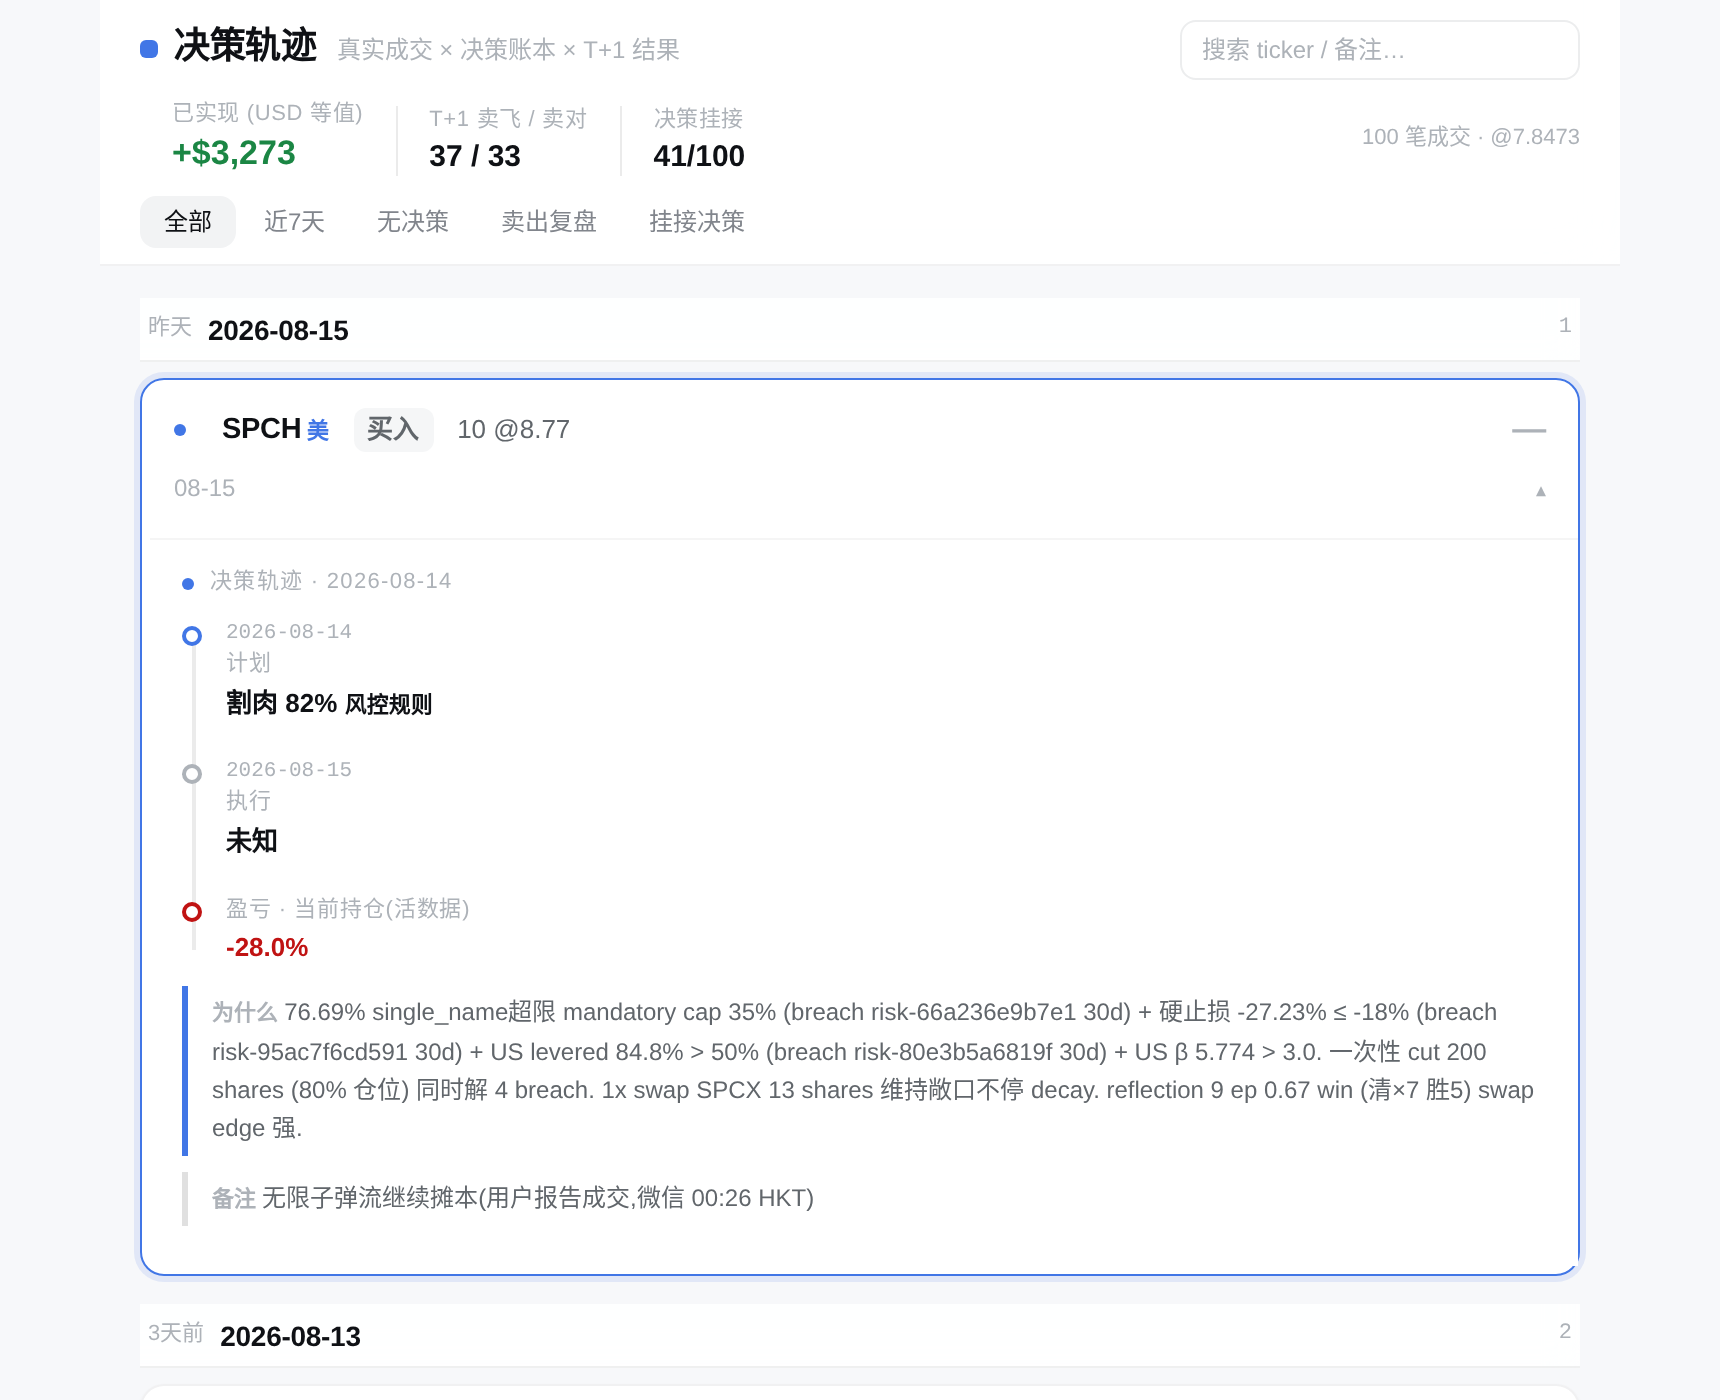
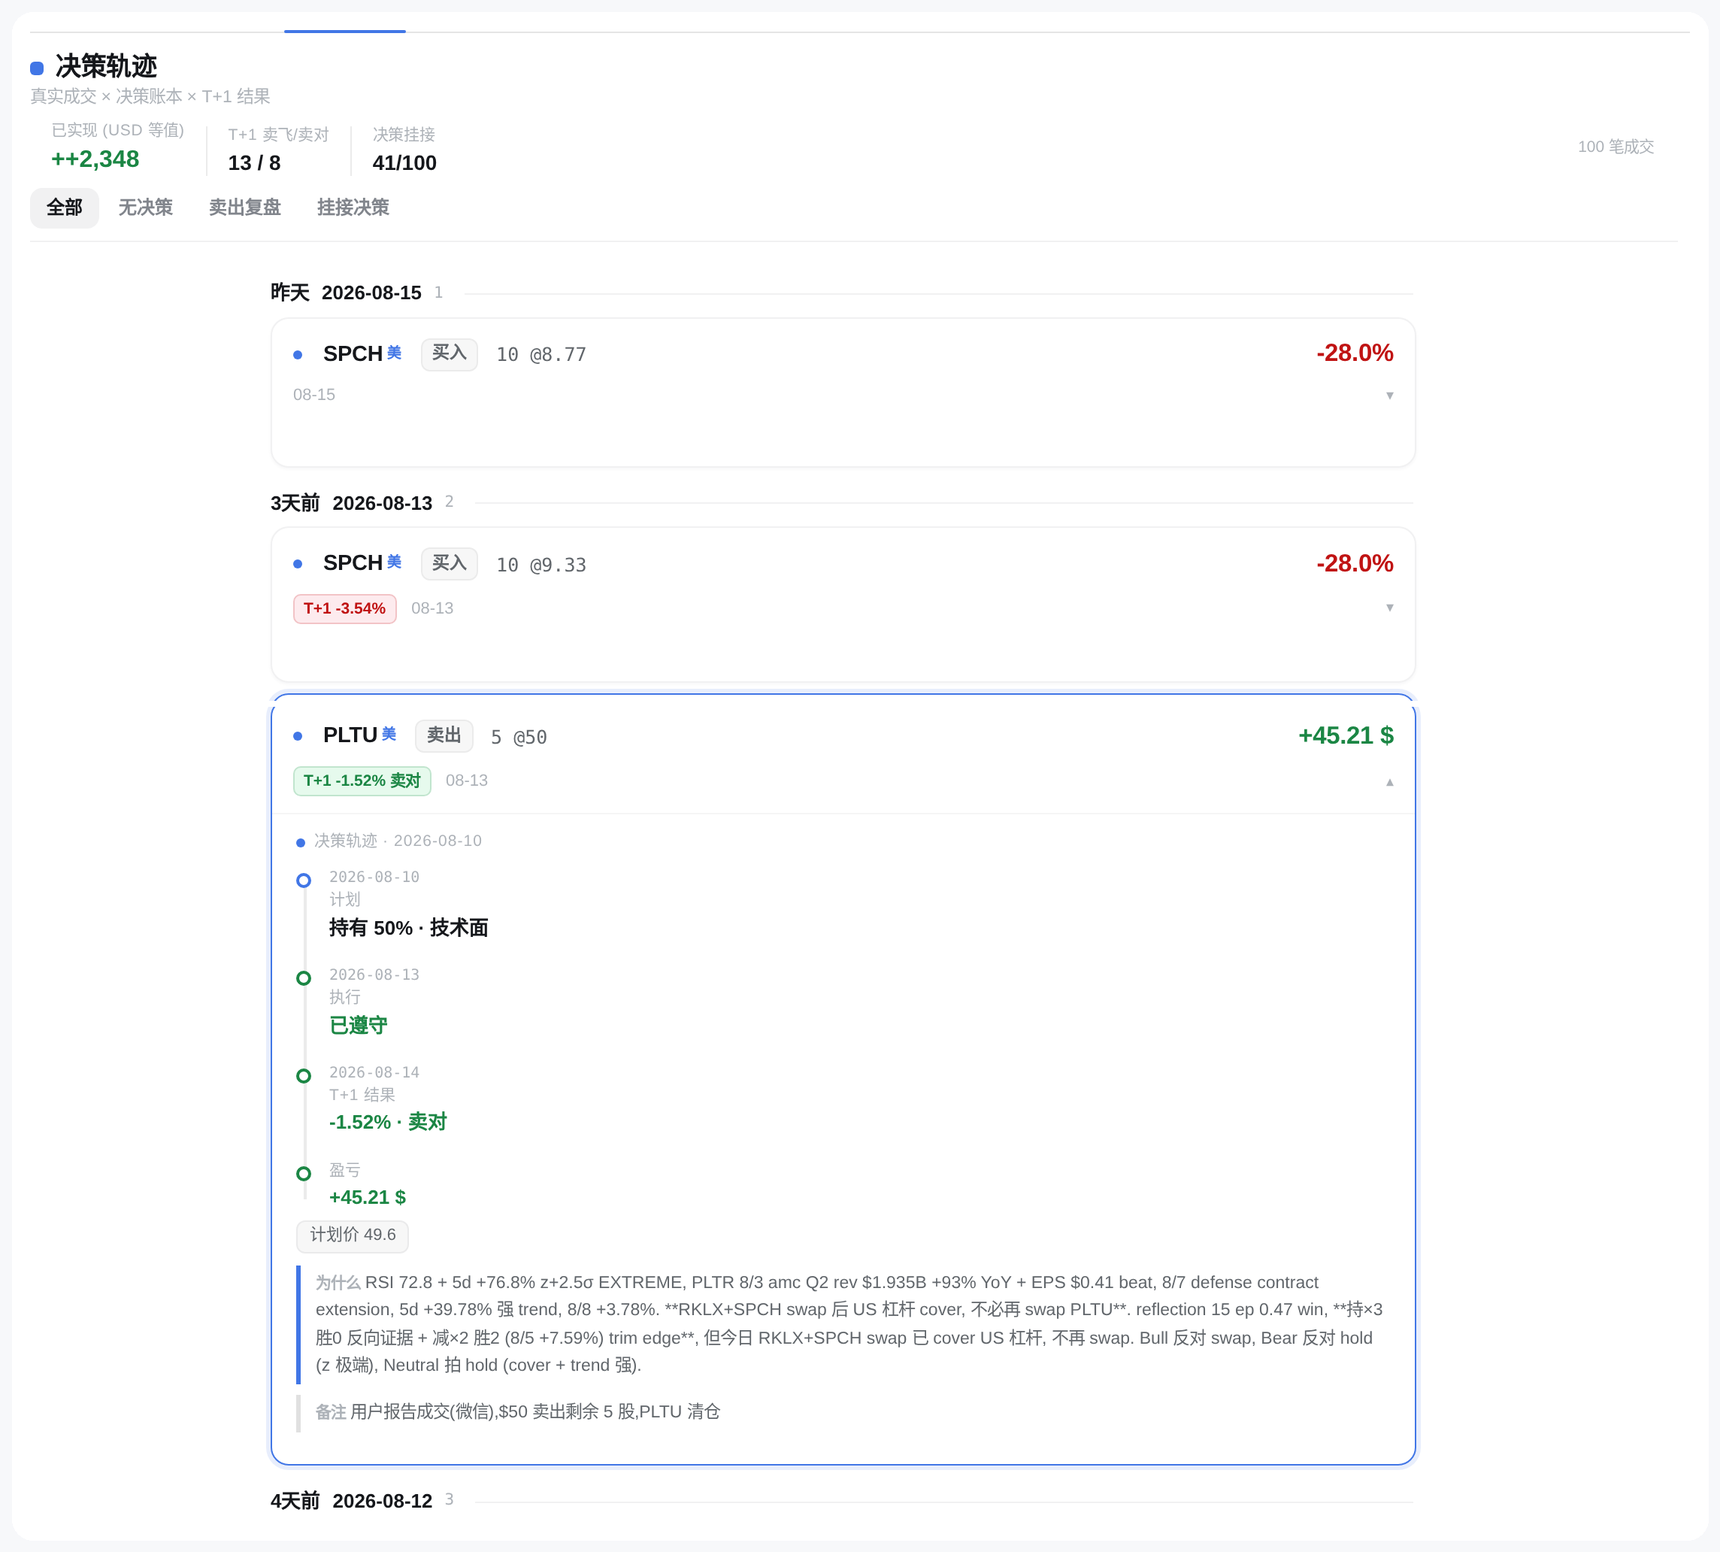
docs: 双 harness 截图(Claude Code + 重拍 DSH)+ 收窄 AI 味文案 (#692)
kcn 反馈:①之前 DSH 插件那张截图挑的是最难看的一条(裸 breach id
堆砌的机读文本),②开场文案 AI 味重。

## 变更

- **新增 Claude Code 终端截图**:不是摆拍,`examples/claude-code` 那套流程
  (`clawock init` → `clawock run prepare` → Claude 读 request 写
  decision.json → `clawock run publish`)真的跑了一遍,截图里的 sha256/
  run_id/generation_id/`status: published` 都是那次真实运行产出的
- **重拍 DSH Decision Mind 截图**:旧图选的例子是一条满屏 breach-id 哈希的
  机读文本,新图换成一个真实的 win 案例(PLTU,T+1 卖对 +$45.21,计划→
  执行→T+1→盈亏全绿可读),同时保留上方一条真实止损(SPCH -28%)不藏亏损,
  但不再让最难懂的例子当门面
- 新增「Same contract, whatever the harness looks like」小节把两张图并排,
  证明「同一个 decision.json 契约,两种长得完全不一样的 harness 界面」,
  EN/ZH 同步
- 开场段 + "What this is" 段砍掉几处「X,不是Y」对仗句式和链式破折号
  (比如 "This repository is a live account before it is a package"),
  换成更直白的陈述句

## 验证

parity / brand-assets / screenshot 相关 43 项测试通过。

diff --git a/README.md b/README.md
@@ -4,12 +4,11 @@
 
 ### AI argues. Code settles. The losses stay on the page.
 
-A real Hong Kong + US brokerage account, run day after day by agents that have
-to argue their case — and graded by code the model never gets to touch. Every
-call is published, wins and losses alike, because a system that only shows you
-the wins is marketing, not evidence. Install the same decision workflow into
-your own agent, in any harness — OpenClaw, Claude Code, Codex, DeepSeek
-Harness, or one you write yourself.
+A real Hong Kong + US brokerage account, run day after day by agents that
+debate every call before it happens, then settled by code the model never
+touches. Every result gets published, wins and losses both. Install the same
+decision workflow into your own agent, in any harness: OpenClaw, Claude Code,
+Codex, DeepSeek Harness, or one you write yourself.
 
 [![PyPI](https://img.shields.io/pypi/v/clawock?label=PYPI&style=flat-square&logo=pypi&logoColor=white&labelColor=252b35&color=4b91c8)](https://pypi.org/project/clawock/)
 [![npm](https://img.shields.io/npm/v/clawock-dsh?label=NPM&style=flat-square&logo=npm&logoColor=white&labelColor=252b35&color=4b91c8)](https://www.npmjs.com/package/clawock-dsh)
@@ -39,31 +38,30 @@ Harness, or one you write yourself.
 
 ## What this is
 
-This repository is a live account before it is a package. A multi-agent desk
-debates the evidence on a real brokerage account with separate Hong Kong and
-US books and proposes trades; execution stays with the account owner. The
-product is the record that comes out of that: real positions, an accumulating
-decision history, and a public scorecard the model does not get a vote on —
-not a get-rich bot, and not a copy-trading service.
+This started as one account, not a package. A multi-agent desk debates the
+evidence on a real brokerage account with separate Hong Kong and US books and
+proposes trades; the account owner still places the orders. What comes out of
+that is the record: real positions, a growing decision history, and a public
+scorecard the model has no say in — not a get-rich bot, and not a
+copy-trading service.
 
-**clawock is the reusable half of that desk, pulled out of one live account
-instead of designed in the abstract: an agent-native, harness-agnostic
-investment decision-workflow plugin with a verifiable harness.** OpenClaw,
-Claude Code, Codex, DeepSeek Harness, or another external runtime keeps the
-model call, conversation, memory, planning, tools, permissions, and
-credentials — clawock installs the workflow that certifies evidence, forces an
-opposing case, validates money and FX, links outcomes back to the decision
-that caused them, and keeps every improvement proposal reviewable and
-reversible. Swap harnesses and the decision contract does not move: the loop
-is files and a CLI — see
+**clawock is the part of that desk we pulled out and made reusable: an
+agent-native, harness-agnostic investment decision-workflow plugin with a
+verifiable harness.** OpenClaw, Claude Code, Codex, DeepSeek Harness, or
+another external runtime keeps the model call, the conversation, memory,
+planning, tools, permissions and credentials. clawock installs the workflow on
+top of that: it certifies evidence, forces an opposing case, checks the money
+and FX arithmetic, links outcomes back to the decision that caused them, and
+keeps every improvement proposal reviewable and reversible. Swap harnesses and
+the decision contract stays put — it's just files and a CLI. See
 [`examples/`](https://github.com/KCNyu/clawock/blob/master/examples/README.md) for the
-same run driven from a pure CLI, an OpenClaw skill, a Claude Code instruction, a Codex AGENTS.md,
+same run done from a pure CLI, an OpenClaw skill, a Claude Code instruction, a Codex AGENTS.md,
 and a DeepSeek Harness agent.
 
-It installs from PyPI — `pip install clawock` — and
-[runs on your own book](#run-it-on-your-own-book) without this repository. The
-model proposes; Python owns the prices, the risk limits, the ledger, the
-settlement, and the grading.
+Install it with `pip install clawock`, or
+[run it on your own book](#run-it-on-your-own-book) without this repository at
+all. The model proposes; Python owns the prices, the risk limits, the ledger,
+the settlement, and the grading.
 
 ### What makes it different
 
@@ -267,25 +265,30 @@ without a model (`bash examples/cli/minimal-run/run.sh`), and
 same run driven from a pure CLI, an OpenClaw skill, a Claude Code instruction, a Codex AGENTS.md,
 and a DeepSeek Harness agent — the harness never touches the contract.
 
-### DeepSeek Harness plugin: every fill is a trace
+### Same contract, whatever the harness looks like
 
-DSH users get a ready plugin on npm — one command installs the skill plus a
-conversation-view panel:
+Two harnesses, two completely different interfaces, one `decision.json` on
+each side. Claude Code stays a terminal loop — prepare, read, write, publish:
+
+<p align="center"><img src="https://raw.githubusercontent.com/KCNyu/clawock/refs/heads/master/site/assets/claude-code-terminal.png" alt="Claude Code running the investment-decision workflow end to end: clawock init, clawock run prepare, Claude writing decision.json, clawock run publish returning status: published" width="820"></p>
+
+DeepSeek Harness gets a native panel instead — one command installs the skill
+plus a conversation-view tab:
 
 ```bash
 dsh plugin --profile web add clawock-dsh
 ```
 
-The **Decision Mind** tab is one organic view, not three tabs: the spine is
-your real fills (`portfolio.json` trades), each row carries the soft-paired
-decision (±3 days from `decisions.jsonl`) as the "why", and the T+1 snapshot
-close decides 卖飞/卖对 on sells. Click a fill and the trace unfolds — plan →
+The **Decision Mind** tab is one view, not three tabs: the spine is your real
+fills (`portfolio.json` trades), each row carries the soft-paired decision
+(±3 days from `decisions.jsonl`) as the "why", and the T+1 snapshot close
+decides 卖飞/卖对 on sells. Click a fill and the trace unfolds — plan →
 execution → T+1 → P&L — with the rationale and note in semantic colors, plus
-an emotion-pressure field on the (currently few) records that logged one.
-Fills with no decision say so explicitly; nothing is pretended. Currency is
-never mixed: USD and HKD figures are kept apart and only ever combined through
-the desk's published FX rate. The same trace data powers the public
-dashboard's Reflect card, so the plugin and the website render one contract:
+an emotion-pressure field on the small number of records that logged one so
+far. Fills with no decision say so explicitly, instead of making one up.
+Currency is never mixed: USD and HKD stay apart and only combine through the
+desk's published FX rate. The same trace data powers the public dashboard's
+Reflect card, so the plugin and the website render one contract:
 
 <p align="center"><img src="https://raw.githubusercontent.com/KCNyu/clawock/refs/heads/master/site/assets/dsh-decision-mind.png" alt="Decision Mind plugin — decision traces: real fills with soft-paired decisions and T+1 verdicts, expandable to a plan → execution → result timeline" width="860"></p>
 

diff --git a/README.zh.md b/README.zh.md
@@ -225,9 +225,14 @@ isolated run published 9c07e83a19b046b089f443829eb9a06e
 
 跑完你就拿到了第一张被 Python 校验过的决策回执。换 harness?[`examples/`](examples/README.md) 五种跑法同一条契约。
 
-### DeepSeek Harness 插件:每一笔成交都是一条可点开的决策轨迹
+### 同一份契约,换个 harness 长得完全不一样
 
-DSH 用户一条命令装插件(skill + 会话面板,已发布 npm):
+两个 harness、两种完全不同的界面,两边跑出来都是同一份 `decision.json`。
+Claude Code 是终端里的一个循环——prepare、读、写、publish:
+
+<p align="center"><img src="https://raw.githubusercontent.com/KCNyu/clawock/refs/heads/master/site/assets/claude-code-terminal.png" alt="Claude Code 跑通 investment-decision 全流程:clawock init、clawock run prepare、Claude 写 decision.json、clawock run publish 返回 status: published" width="820"></p>
+
+DeepSeek Harness 则是原生面板:一条命令装插件(skill + 会话面板,已发布 npm):
 
 ```bash
 dsh plugin --profile web add clawock-dsh
